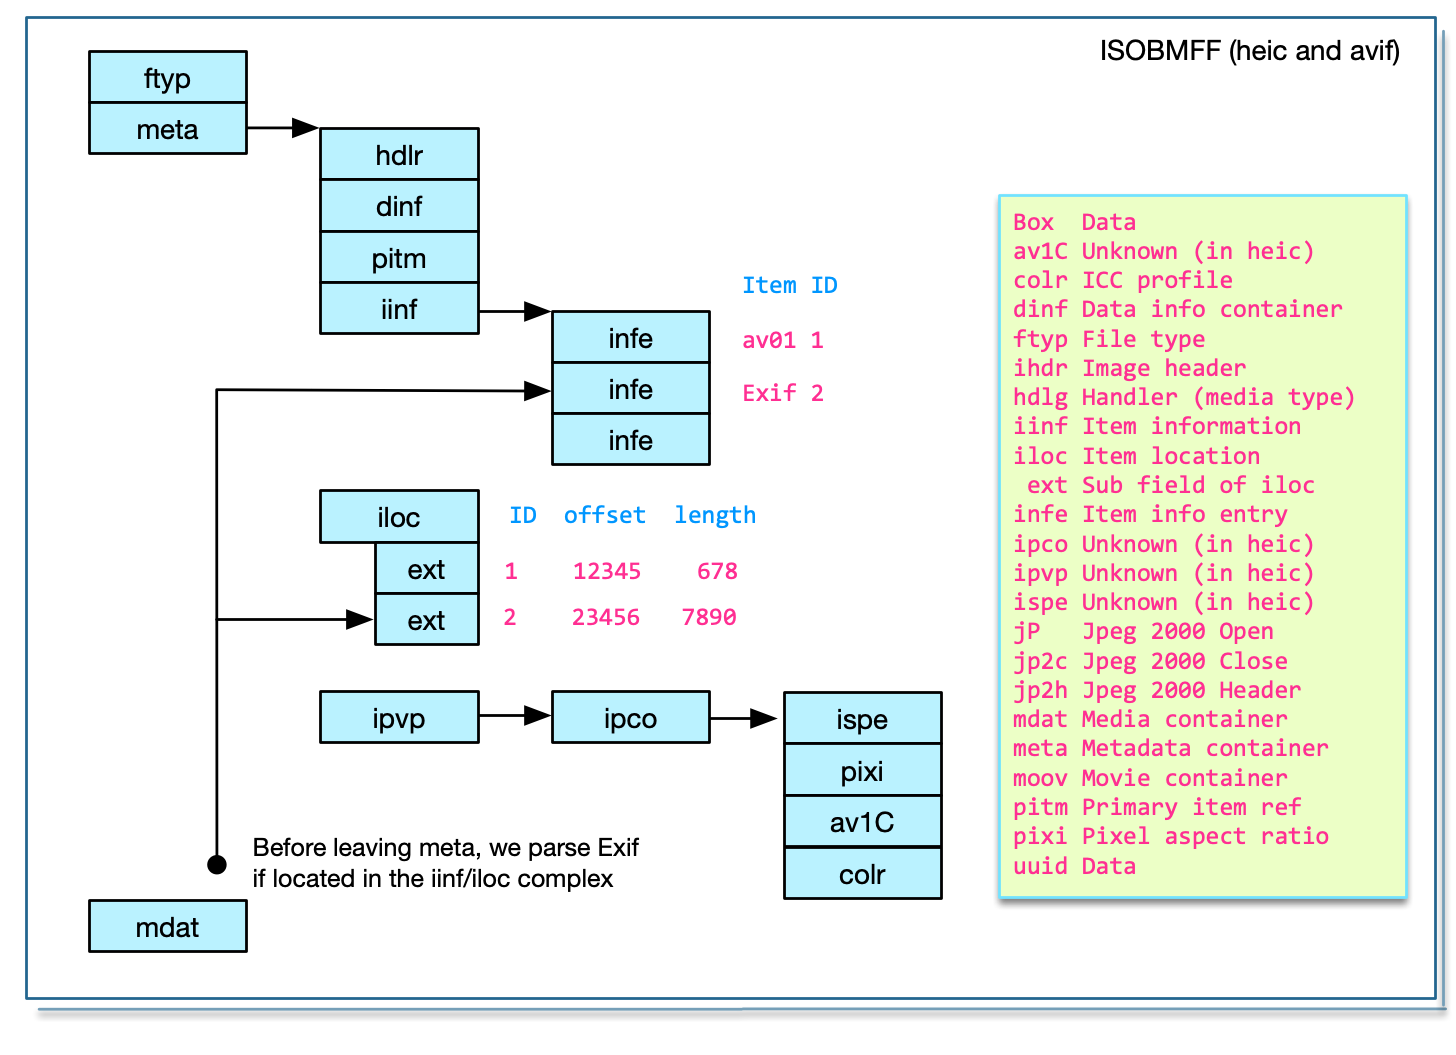
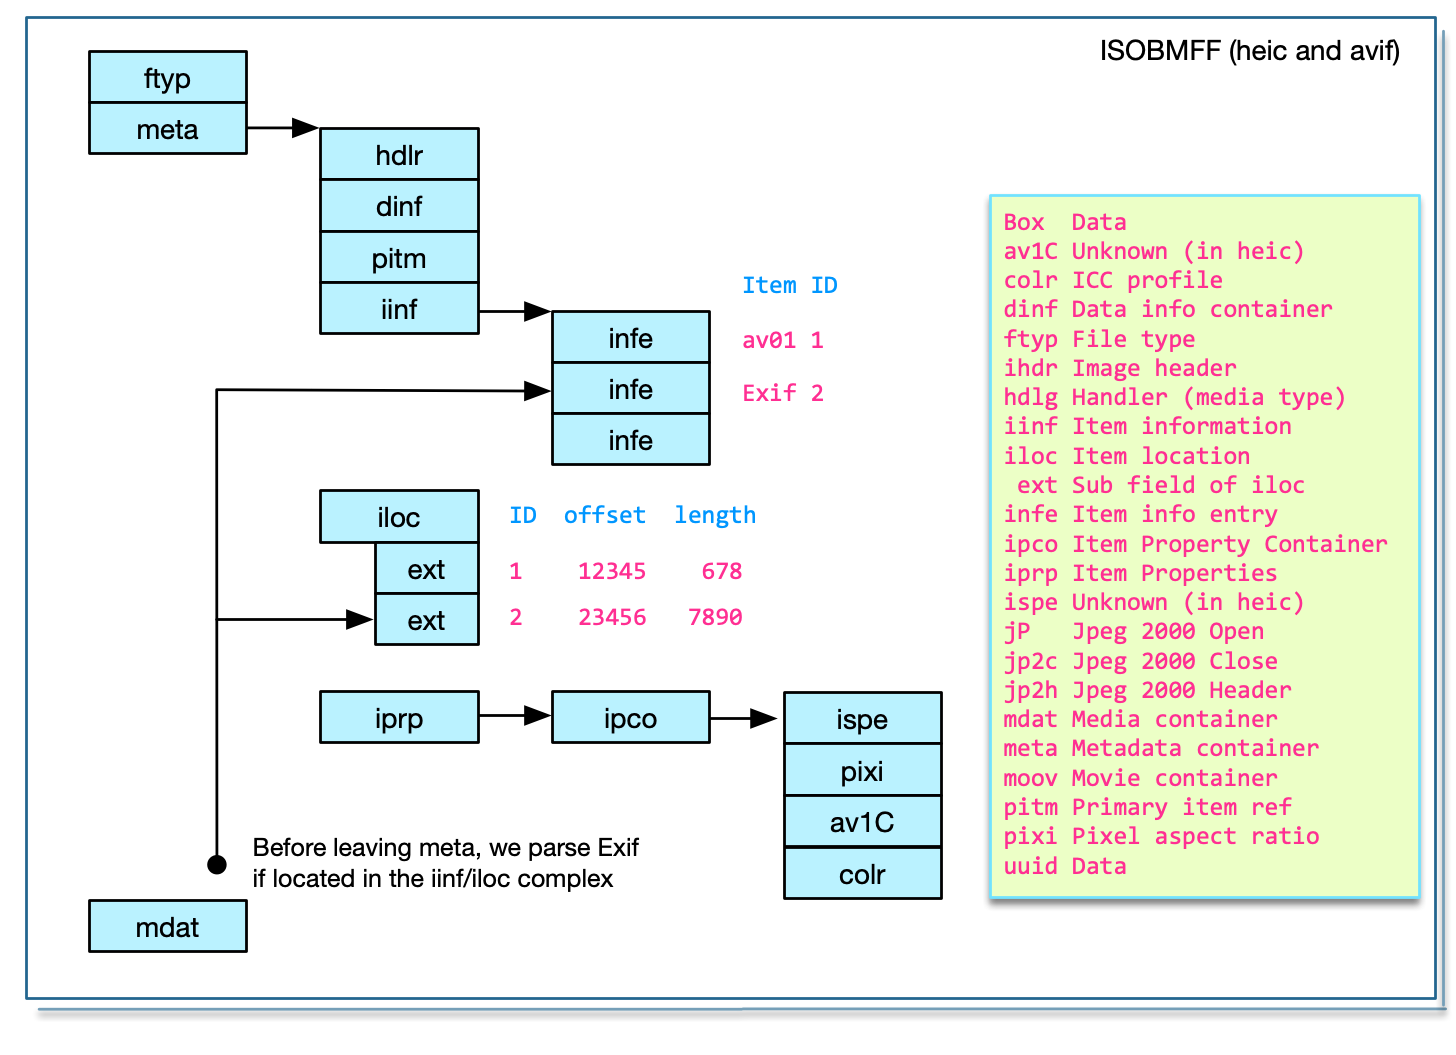
thanks to Peter, fixed 2 errors in isobmff drawing

diff --git a/book/IMaEA.md b/book/IMaEA.md
@@ -5408,7 +5408,7 @@ $ env MANPATH=$EXIV2HOME/man:$MANPATH man -t p | ps2pdf
 <div id="11-5"/>
 ### 11.5 Testing.
 
-This is discussed in detail here: [10 Testing](#10).
+This is discussed in detail here: [8 Test Suite](#8).
 <div id="11-6"/>
 ### 11.6 Samples
 
@@ -6121,6 +6121,99 @@ I strongly encourage you to download, build and install Exiv2.  The current (and
 There is substantial documentation provided with the Exiv2 project.  This book does not duplicate the project documentation, but compliments it by explaining how and why the code works. 
 
 The following two programs args.cpp and dmpf.cpp are based on similar utility programs on the Apollo Workstatation on which I worked during the 1980s.
+
+#### make test
+
+The code in the book has a simple test harness in test/run.sh.  When you build, you can run the tests with the command:
+
+```bash
+586 rmills@rmillsmbp:~/gnu/exiv2/team/book/build $ make tests
+Scanning dependencies of target tests
+20200717_221452.avif passed
+args passed
+avi.avi passed
+avif.avif passed
+Canon.cr2 passed
+Canon.crw passed
+Canon.jpg passed
+cr3.cr3 passed
+csv passed
+dmpf passed
+heic.heic passed
+IMG1.HEIC passed
+IMG_3578.HEIC passed
+mrw.mrw passed
+NEF.NEF passed
+NikonD5300.dcp passed
+ORF.ORF passed
+Stonehenge.jpg passed
+Stonehenge.tiff passed
+webp.webp passed
+-------------------
+Passed 20 Failed 0
+-------------------
+Built target tests
+587 rmills@rmillsmbp:~/gnu/exiv2/team/book/build $ 
+```
+
+The code to implement the tests is in test/run.sh
+
+```bash
+#!/usr/bin/env bash
+
+pass=0
+fail=0
+
+# Create reference and tmp directories
+if [ ! -e ../test/data ]; then mkdir ../test/data ; fi
+if [ ! -e ../test/tmp  ]; then mkdir ../test/tmp  ; fi
+
+report()
+{
+    stub=$1
+    # if there's no reference file, create one
+    # (make it easy to add tests or delete and rewrite all reference files)
+    if [ ! -e "../test/data/$stub" ]; then
+        cp "../test/tmp/$stub" ../test/data
+    fi
+    
+    diff -q "../test/tmp/$stub" "../test/data/$stub" >/dev/null 
+    if [ "$?" == "0" ]; then
+        echo "$stub passed";
+        pass=$((pass+1))
+    else
+        echo "$stub failed"
+        fail=$((fail+1))
+    fi
+}
+
+# test every file in ../files
+for i in $( ls ../files/* | sort --ignore-case ) ; do
+    stub=$(basename $i)
+    # dmpf and csv are utility tests
+    if [ $stub == dmpf -o $stub == csv -o $stub == args ]; then
+        ./$stub ../files/$stub 2>&1 > "../test/tmp/$stub"
+    else 
+        ./tvisitor -pRU "$i"   2&>1 > "../test/tmp/$stub"
+    fi
+    report $stub
+done
+
+echo -------------------
+echo Passed $pass Failed $fail
+echo -------------------
+
+# That's all Folks
+##
+```
+
+The CMake code in CMakeLists.txt is:
+
+```cmake
+# Test harness (in ../test)
+add_custom_target(test  COMMAND ../test/run.sh )
+add_custom_target(tests COMMAND ../test/run.sh )
+```
 
 #### args.cpp
 
